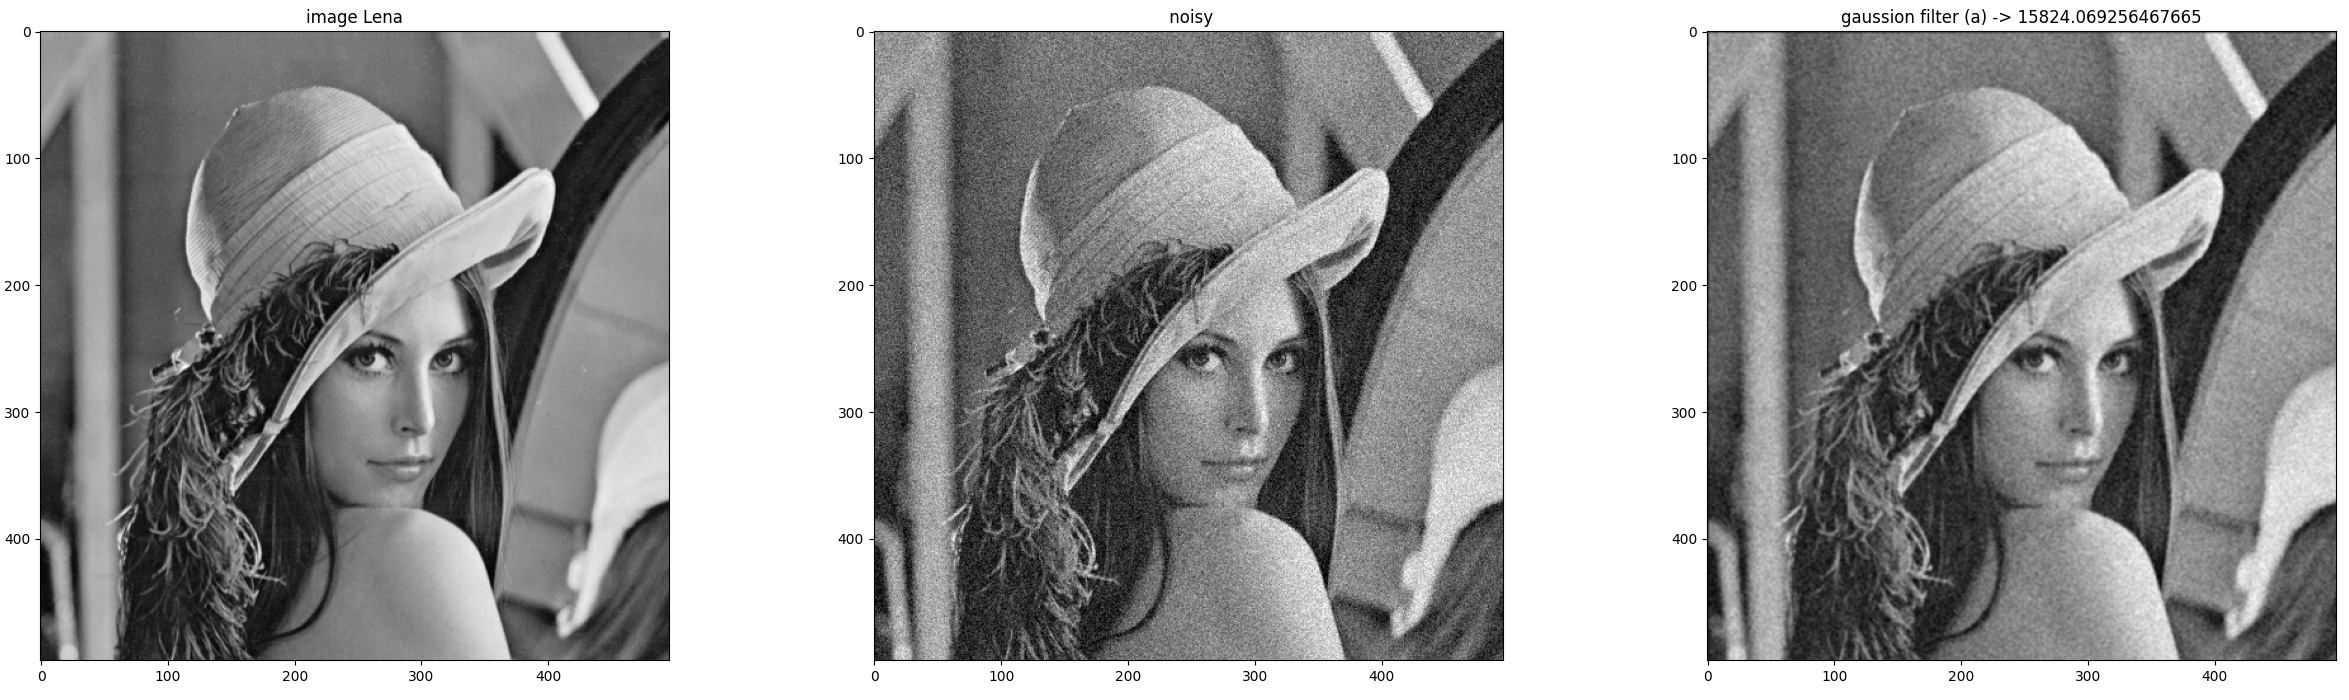
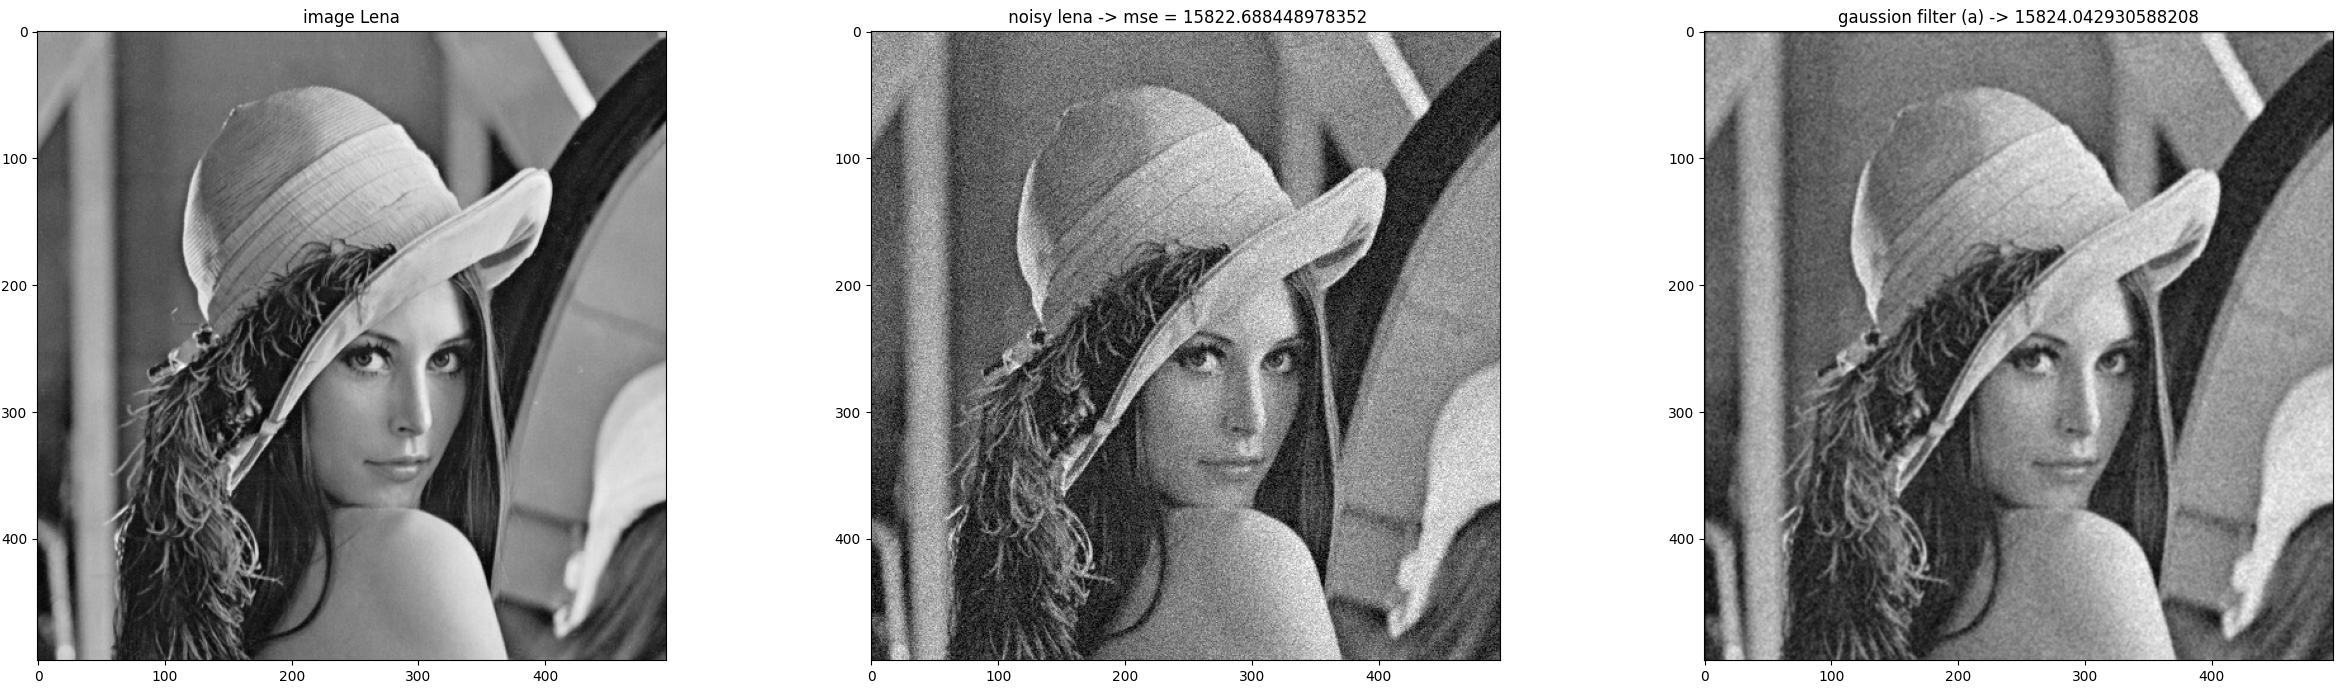
images_go_brrrrrrrrr

diff --git a/imagerieNumerique/TP_12/exercice_1.py b/imagerieNumerique/TP_12/exercice_1.py
@@ -9,25 +9,46 @@ imageLena = lib.loadImag(path)
 
 var = (20 / 255) ** 2
 noisyGrayLena = util.random_noise(imageLena, var=var)
-mse = lib.metric.mean_squared_error(imageLena, noisyGrayLena)
-print("MSE -> lena & lena noisy -> " + str(mse))
+msenoisy = lib.metric.mean_squared_error(imageLena, noisyGrayLena)
+
+
+imagesToPlot = [imageLena, noisyGrayLena]
+label = ["image Lena", " noisy lena -> mse = " + str(msenoisy)]
+lib.affichage_rows_cols_images(1, 2, imagesToPlot, label)
+
+# actual exercice a
 
 filter = 1 / 16 * lib.np.array([[1, 2, 1], [2, 4, 2], [1, 2, 1]])
 image_padded = lib.padding(noisyGrayLena, filter, 'constant')
 image_padded_filtered = lib.image_filtering(image_padded, filter)
 image_padded_filtered = lib.get_cropped_image(image_padded_filtered, -1)
-mse = lib.metric.mean_squared_error(imageLena, image_padded_filtered)
+mseFilterA = lib.metric.mean_squared_error(imageLena, image_padded_filtered)
 
 imagesToPlot = [imageLena, noisyGrayLena, image_padded_filtered]
-label = ["image Lena", " noisy", "gaussion filter (a) -> " + str(mse)]
+label = ["image Lena", " noisy lena -> mse = " + str(msenoisy), "gaussion filter (a) -> " + str(mseFilterA)]
 lib.affichage_rows_cols_images(1, 3, imagesToPlot, label)
-print("MSE -> lena & lena noisy with gaussian filter -> " + str(mse))
+print("MSE -> lena & lena gaussion filter (a) -> " + str(mseFilterA))
 
 # b
 
-ideal_lowpass_filter = lib.idealLowPassFilter(noisyGrayLena, 590)
-mse = lib.metric.mean_squared_error(imageLena, ideal_lowpass_filter)
-print(mse)
-imagesToPlot = [imageLena, noisyGrayLena, image_padded_filtered, ideal_lowpass_filter]
-label = ["image Lena", " noisy", "a", "b"]
-lib.affichage_rows_cols_images(1, 4, imagesToPlot, label)
+ideal_lowpass_filter = lib.idealLowPassFilter(noisyGrayLena, 700)
+mse_ideal = lib.metric.mean_squared_error(imageLena, ideal_lowpass_filter)
+
+
+butter_lowpass_filter = lib.butterLowPassFilter(noisyGrayLena, 1000, 2)
+mse_butter = lib.metric.mean_squared_error(imageLena, butter_lowpass_filter)
+
+
+gaussian_lowpass_filter = lib.gaussianLowPassFilter(noisyGrayLena, 1000)
+mse_gaussian = lib.metric.mean_squared_error(imageLena, gaussian_lowpass_filter)
+
+
+imagesToPlot = [imageLena, noisyGrayLena, image_padded_filtered, ideal_lowpass_filter, butter_lowpass_filter, gaussian_lowpass_filter]
+label = ["image lena", "noisy lena", "gaussian filter (a)", "ideal low pass (b)", "butter low pass (b)", "gaussian low pass (b)"]
+lib.affichage_rows_cols_images(2, 3, imagesToPlot, label)
+
+print("MSE -> lena & lena noisy -> " + str(msenoisy))
+print("MSE -> lena & lena gaussian (a) -> " + str(mseFilterA))
+print("MSE -> lena & ideal low pass (b) - cutoff = 700 -> " + str(mse_ideal))
+print("MSE -> lena & butter low pass (b) - cutoff = 1000 - n = 2 -> " + str(mse_butter))
+print("MSE -> lena & gaussian low pass (b) - cutoff = 1000 -> " + str(mse_gaussian))

diff --git a/imagerieNumerique/TP_12/exercice_2.py b/imagerieNumerique/TP_12/exercice_2.py
@@ -1,0 +1,46 @@
+import lib
+import numpy as np
+import skimage.util as util
+
+# a
+
+path = "lena.png"
+imageLena = lib.loadImag(path)
+
+filter = 1 / 9 * lib.np.array([[1, 1, 1], [1, 1, 1], [1, 1, 1]])
+image_padded = lib.padding(imageLena, filter, 'constant')
+image_padded_filtered = lib.image_filtering(image_padded, filter)
+image_padded_filtered_a = lib.get_cropped_image(image_padded_filtered, -1)
+
+mseFilterA = lib.metric.mean_squared_error(imageLena, image_padded_filtered_a)
+"""
+imagesToPlot = [imageLena, image_padded_filtered_a]
+label = ["image Lena", " lena with box filter  " + str(mseFilterA)]
+lib.affichage_rows_cols_images(1, 2, imagesToPlot, label)
+
+# actual a
+
+filter = 1 / 9 * lib.np.array([[1, 1, 1], [1, 1, 1], [1, 1, 1]])
+image_padded = lib.padding(imageLena, filter, 'constant')
+image_padded_filtered = lib.image_filtering(image_padded, filter)
+filter = 1 / 16 * lib.np.array([[1, 2, 1], [2, 4, 2], [1, 2, 1]])
+image_padded_filtered = lib.image_filtering(image_padded_filtered, filter)
+image_padded_filtered = lib.get_cropped_image(image_padded_filtered, -1)
+mseFilterB = lib.metric.mean_squared_error(imageLena, image_padded_filtered)
+
+imagesToPlot = [imageLena, image_padded_filtered_a, image_padded_filtered]
+label = ["image Lena", " lena with box filter  " + str(mseFilterA), "lena with gaussian filter  " + str(mseFilterB)]
+lib.affichage_rows_cols_images(1, 3, imagesToPlot, label)
+"""
+
+# b
+x = range(25, 1000, 25)
+y = []
+for val in x:
+    print(val)
+    h_ideal = lib.gaussianHighPassFilter(image_padded_filtered_a, val)
+    y.append(lib.metric.mean_squared_error(imageLena, h_ideal))
+
+lib.plt.plot(x, y)
+lib.plt.title("mse in function of cutoff - gauss high pass filter")
+lib.plt.show()

diff --git a/imagerieNumerique/TP_12/lib.py b/imagerieNumerique/TP_12/lib.py
@@ -108,7 +108,7 @@ def gaussianLowPassFilter(image, cutOff):
 
     for i in range(H.shape[0]):
         for j in range(H.shape[1]):
-            H[i][j] = np.exp(((D[i][j] ** 2) / 2 * (cutOff ** 2)) * -1)
+            H[i][j] = np.exp(((D[i][j] ** 2) / (2 * (cutOff ** 2))) * -1)
 
     G = np.multiply(H, dft_padded_image)
     filtered_image = np.fft.ifft2(G).real
@@ -157,7 +157,7 @@ def gaussianHighPassFilter(image, cutOff):
 
     for i in range(H.shape[0]):
         for j in range(H.shape[1]):
-            H[i][j] = 1 - np.exp(((D[i][j] ** 2) / 2 * (cutOff ** 2)) * -1)
+            H[i][j] = 1 - np.exp(((D[i][j] ** 2) / (2 * (cutOff ** 2))) * -1)
 
     G = np.multiply(H, dft_padded_image)
     filtered_image = np.fft.ifft2(G).real

diff --git a/imagerieNumerique/TP_12/JAN/getFilter.m b/imagerieNumerique/TP_12/JAN/getFilter.m
@@ -22,6 +22,9 @@ v(idy) = v(idy) - N;
 [V, U] = meshgrid(v, u);
 
 D = sqrt(U.^2 + V.^2);
+figure
+imshow(D);
+title(' SEE D');
 
 
 switch type

diff --git a/imagerieNumerique/TP_12/JAN/t2.m b/imagerieNumerique/TP_12/JAN/t2.m
@@ -27,7 +27,7 @@ title(' time domain');
 %  b)
 
  
-Dideal = 10;
+Dideal = 250;
 idealFilter = getFilter('ideal', noisy_lena, Dideal);
 
 
